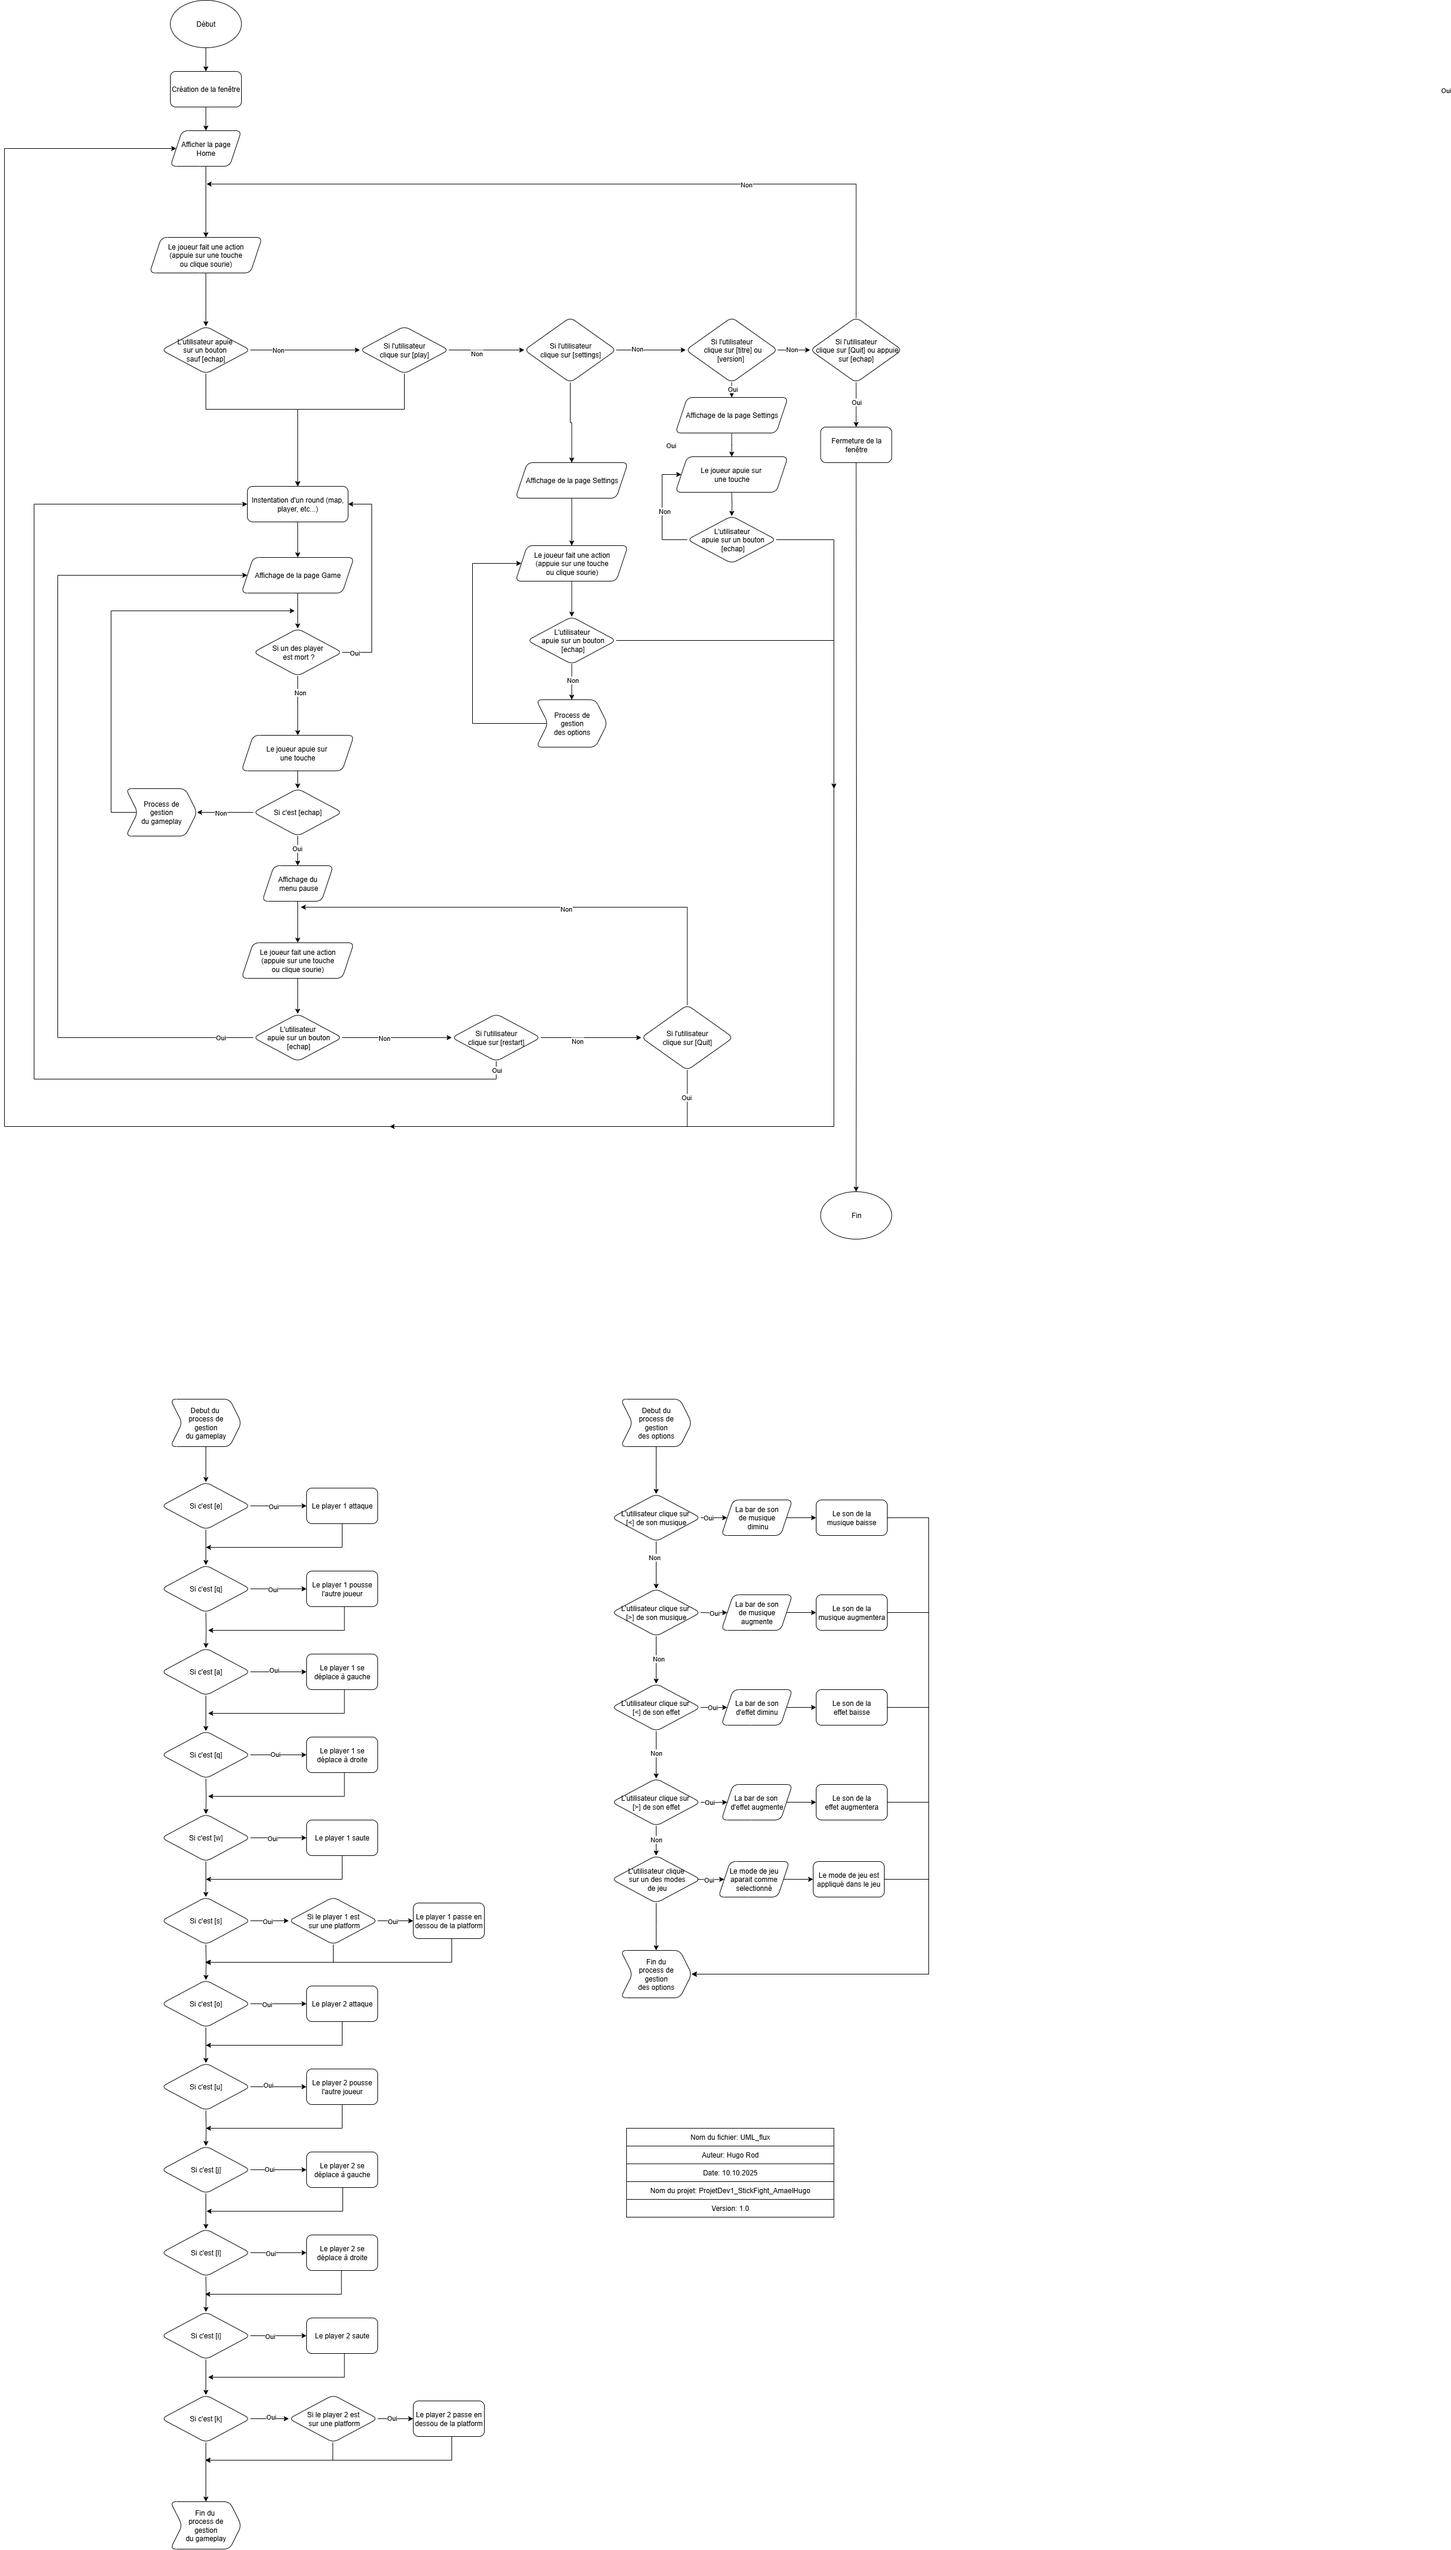
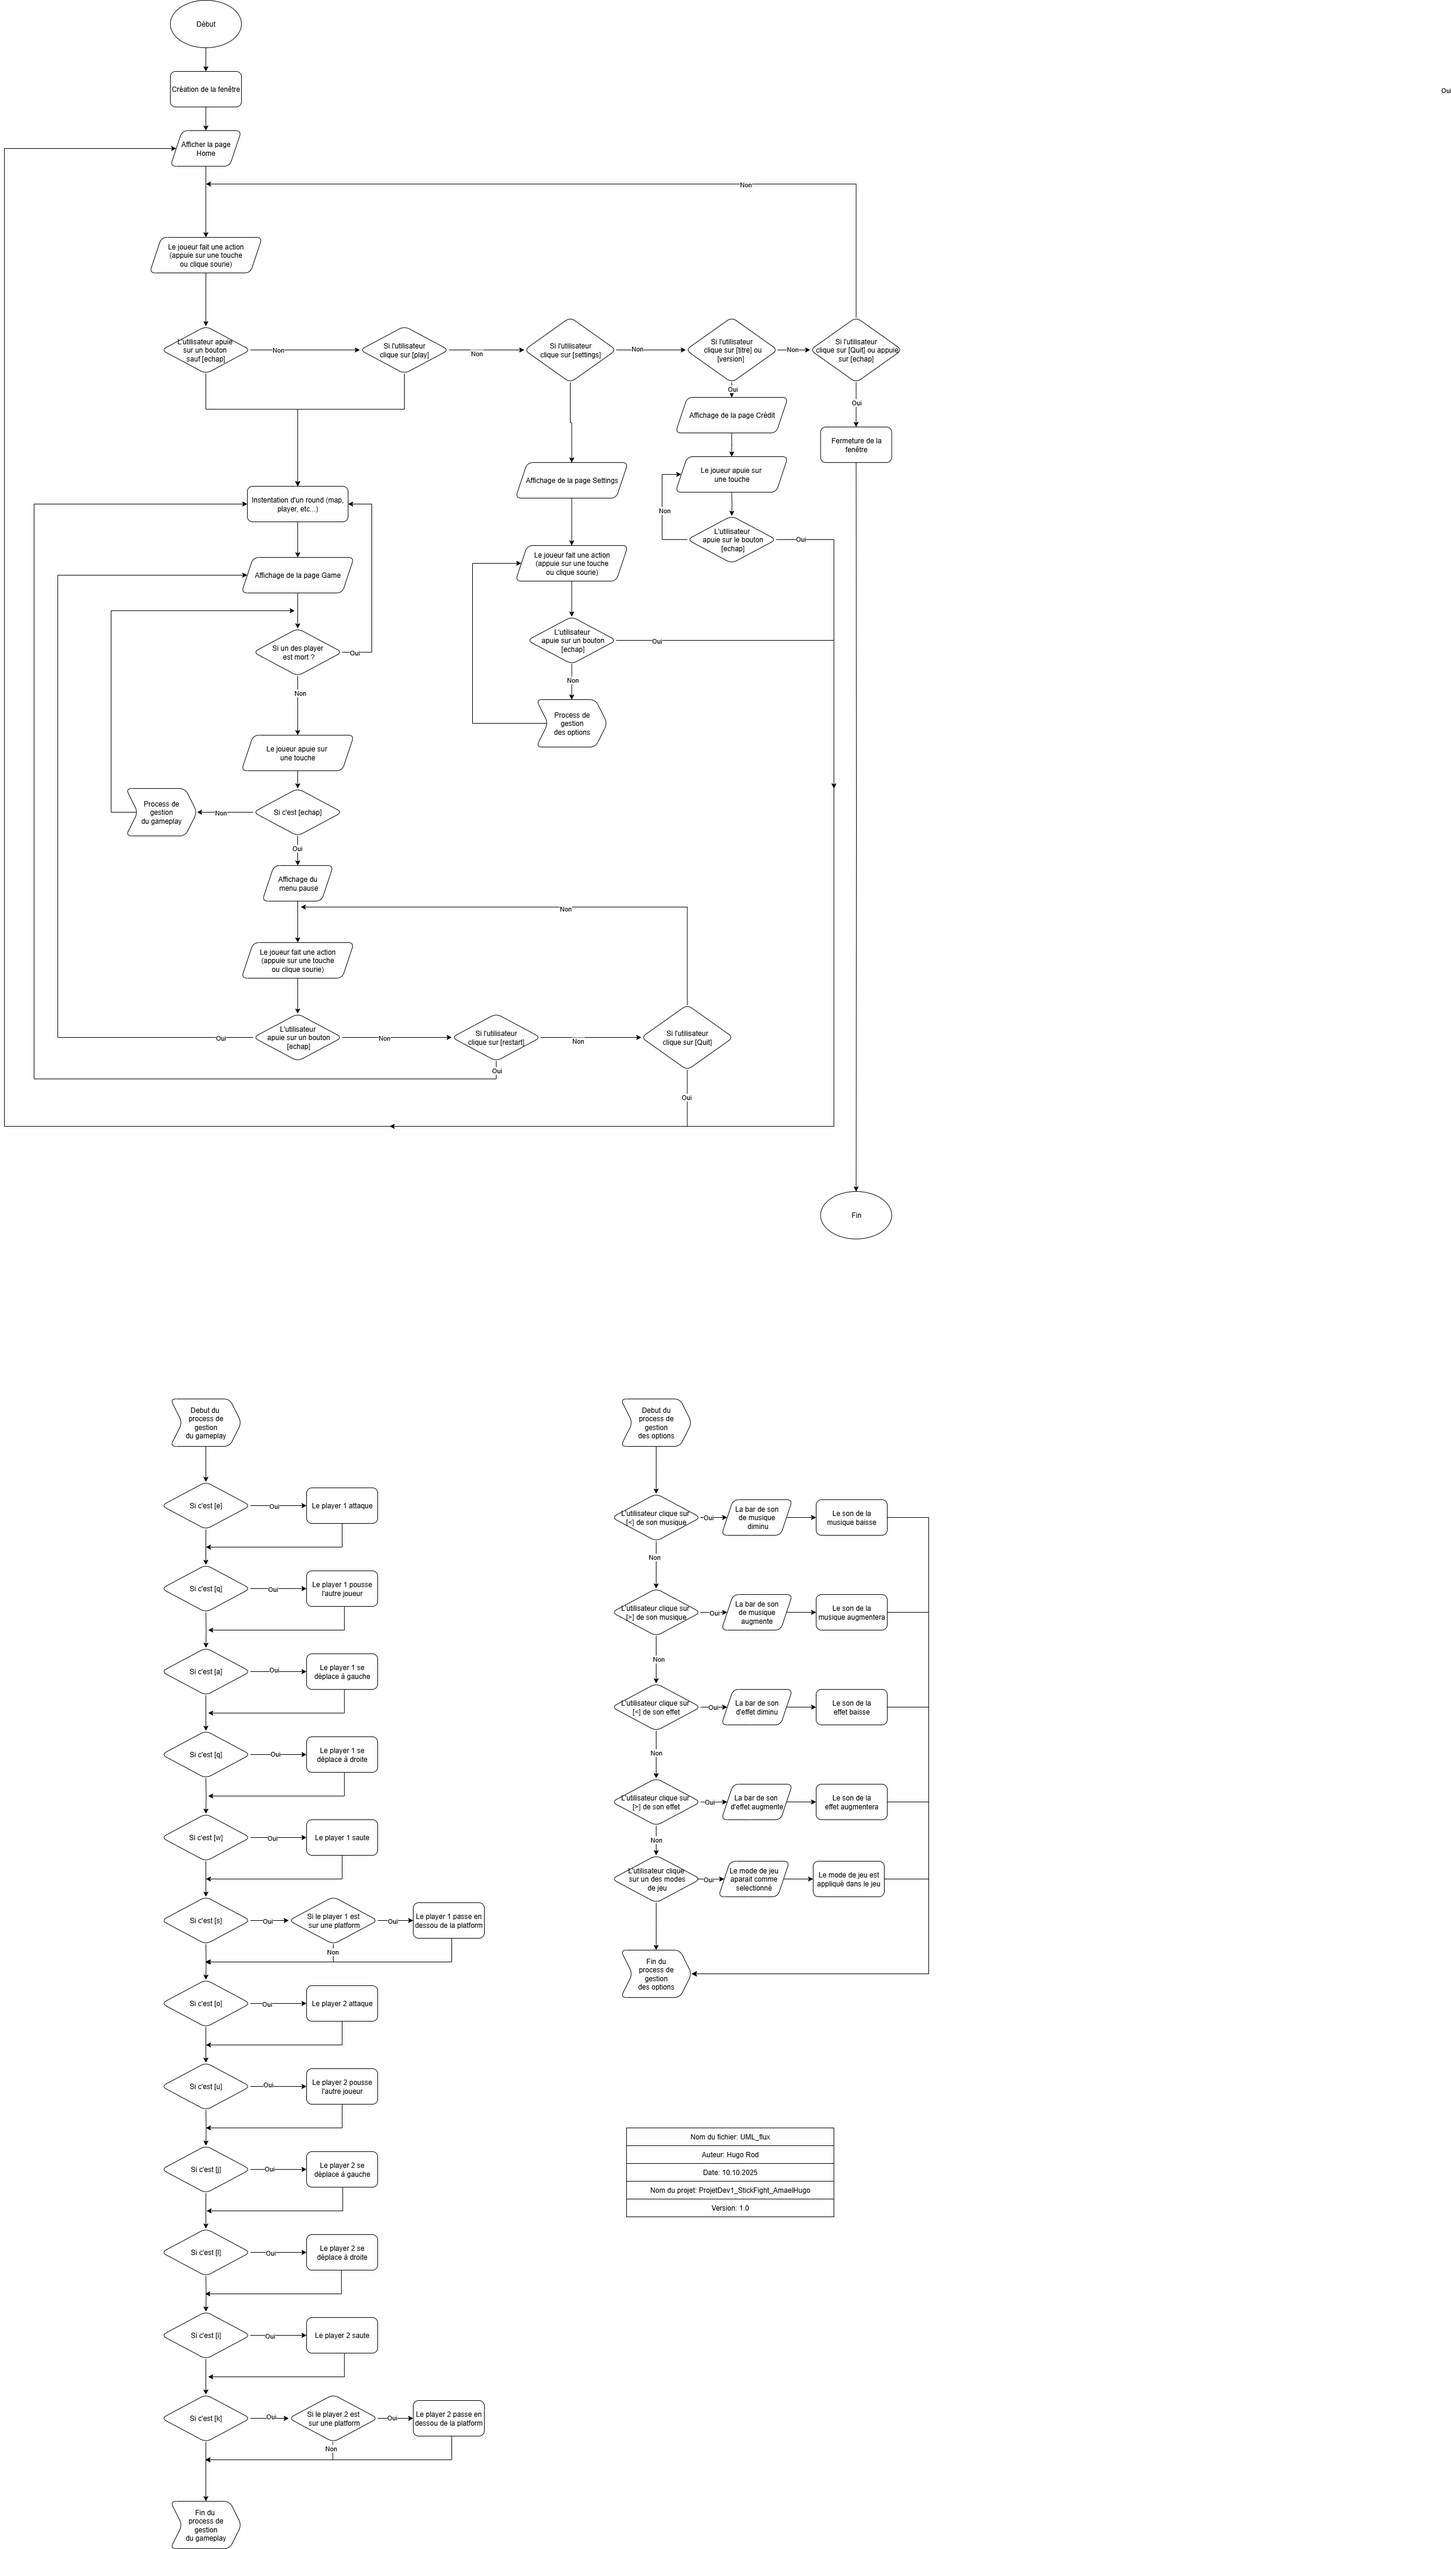
Doc: Edit UML flux and class

diff --git a/src/Root.py b/src/Root.py
@@ -122,7 +122,7 @@ class Root:
 
     def win(self, player_win):
         """
-        Display the windddd
+        Display the window
         :param player_win: The player who win
         :return: The win screen
         """
@@ -142,6 +142,7 @@ class Root:
         :param height: The height of the sound bar
         :return: Buttons of the sound bar
         """
+        self.soundBars = []
         i = 0
         text_title = font.render(title, True, (255, 255, 255))
         self.screen.blit(text_title, (80, (height - 50)))
